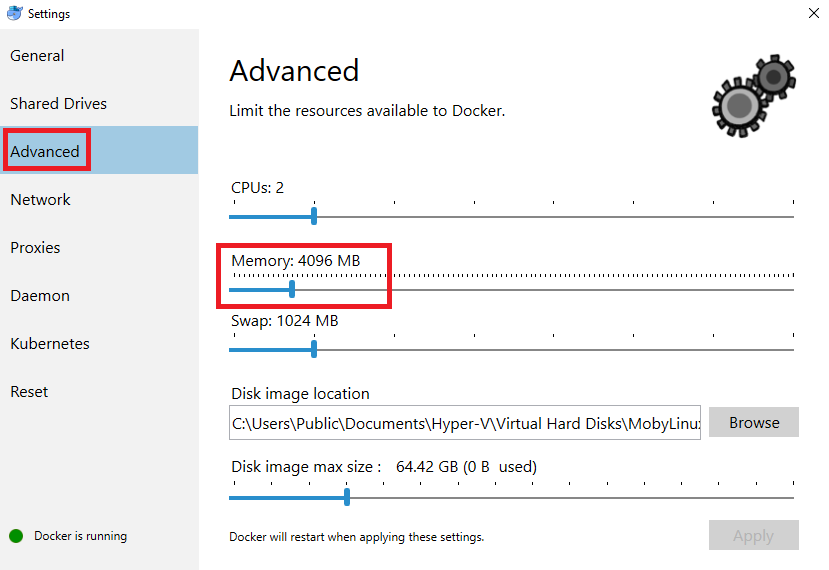
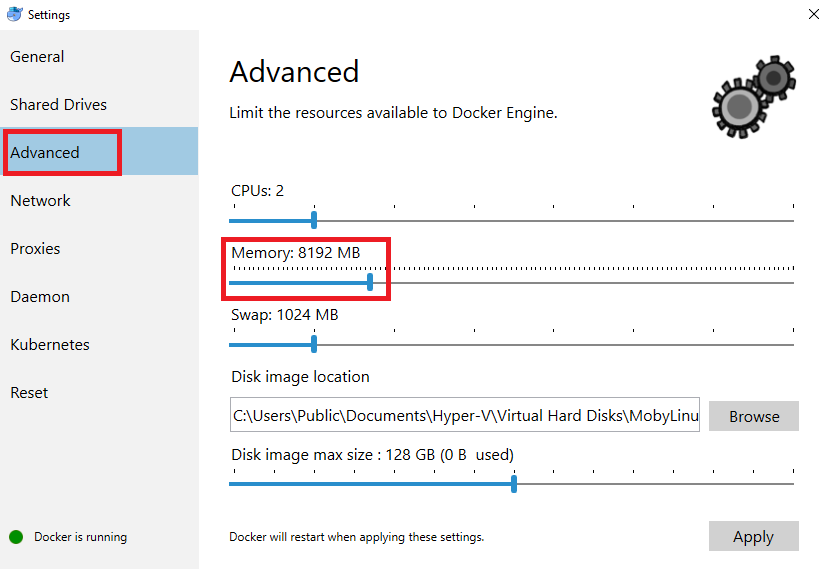
Increase memory requirement

diff --git a/Dev_Env_setup/README.md b/Dev_Env_setup/README.md
@@ -331,7 +331,7 @@ Right click on the Docker icon. Select Settings.
 
 ![Settings](images/3.2.1.PNG)
 
-Select Advanced tab, adjust the memory limit to 4 - 8 GB
+Select Advanced tab, adjust the memory limit to 8 GB
 
 ![Memory](images/3.2.2.PNG)
 
@@ -341,7 +341,7 @@ Click on the Docker icon in the menu bar. Select Preferences.
 
 ![Settings](images/3.2.3.PNG)
 
-Select Advanced tab, adjust the memory limit to 4 - 8 GB
+Select Advanced tab, adjust the memory limit to 8 GB
 
 ![Memory](images/3.2.4.PNG)
 
